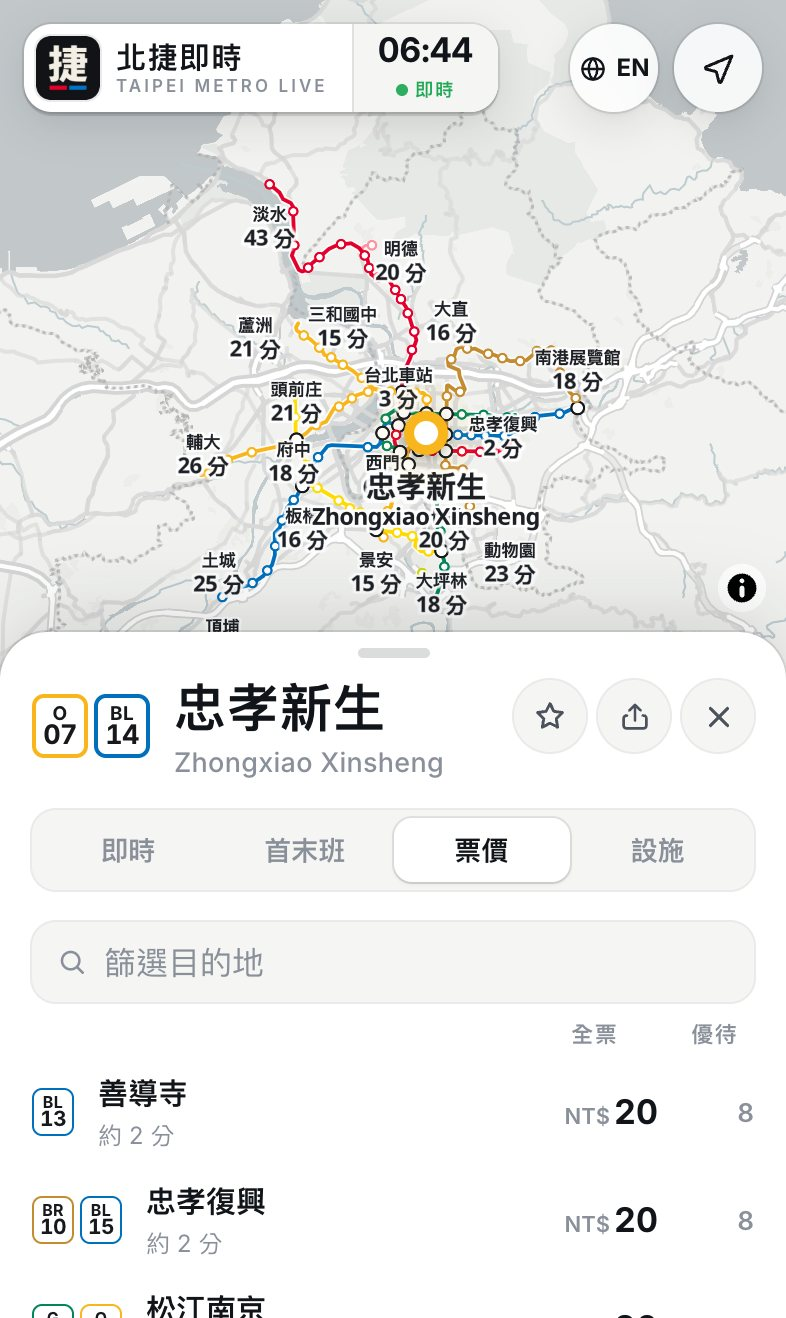
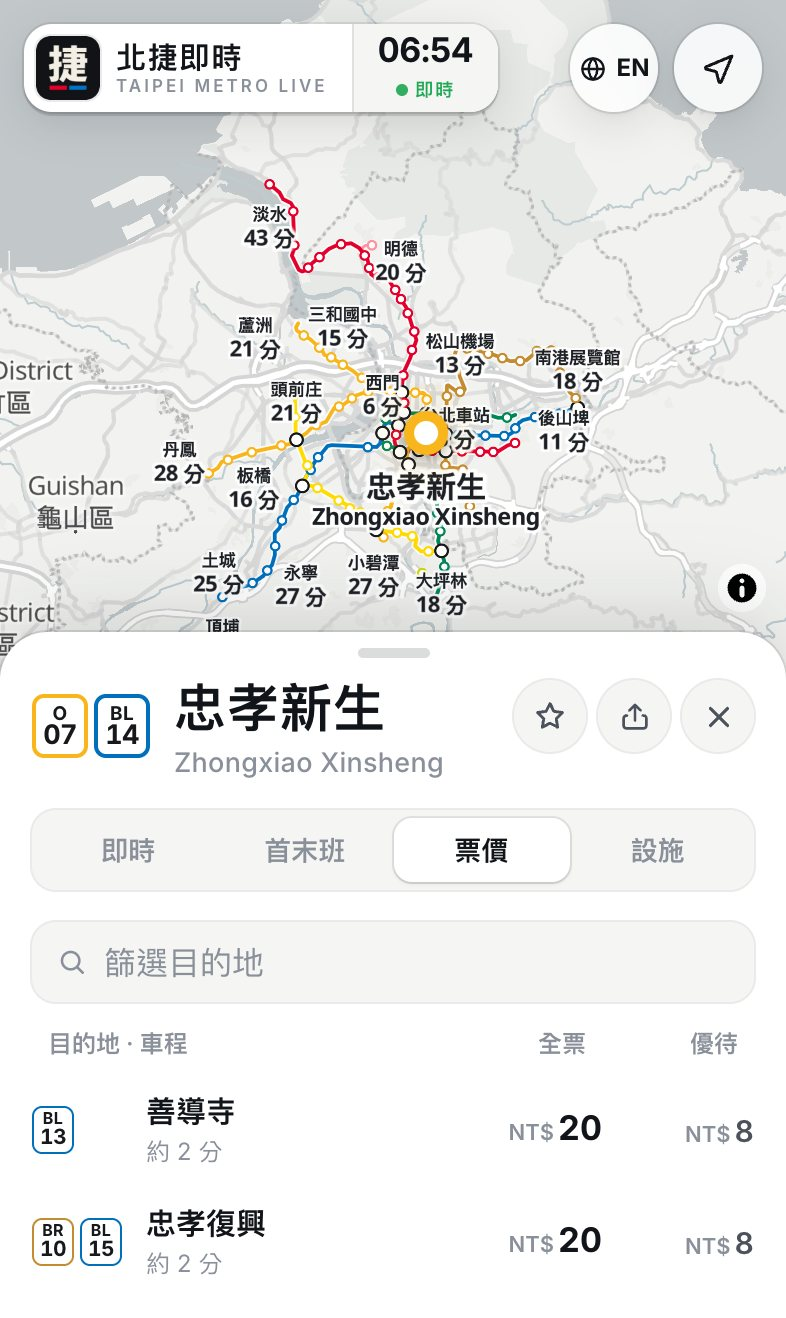
docs(readme): describe the basemap labels and refresh screenshots

diff --git a/README.md b/README.md
@@ -22,7 +22,7 @@ Live arrivals, car crowding, first/last trains, fares and station facilities for
 | **Travel-time map** | Open **票價** and the map relabels every station with minutes from where you are, next to adult and concession fares for all 118 destinations. |
 | **First & last trains** | Weekday first/last departures per direction, with a `末班車 23 分後` warning in the last 90 minutes of service. |
 | **Station details** | Restrooms, information desks, lockers and bicycle rules, split by line at transfer stations. Platform-sign plates show the previous and next station on each line. |
-| **Real track geometry** | Lines are drawn from OpenStreetMap in official colours over a label-free light/dark basemap, so station names are the only text on the map. Station dots sit on the track, and at the exact crossing for transfers. Focusing a line fades the rest of the network. |
+| **Real track geometry** | Lines are drawn from OpenStreetMap in official colours over a quiet light/dark basemap, beneath its street names. Station names always take priority, and no street name can sit under a station dot. Dots sit on the track, and transfers sit at the exact crossing. Focusing a line fades the rest of the network. |
 | **Find anything** | Search by Chinese name, station code (`bl14`) or English (`xinsheng`), browse line strips with branches, find the nearest stations with walking times, pin favourites. |
 | **Built for phones** | Three-stop draggable sheet with velocity snapping, safe-area aware, installable PWA, deep links for every station, tab and line (`/station/R10/fares`, `/line/O`). Floating side panel on desktop. |
 | **Two languages, two themes** | 中文 / English in one tap; light and dark follow the system. |
